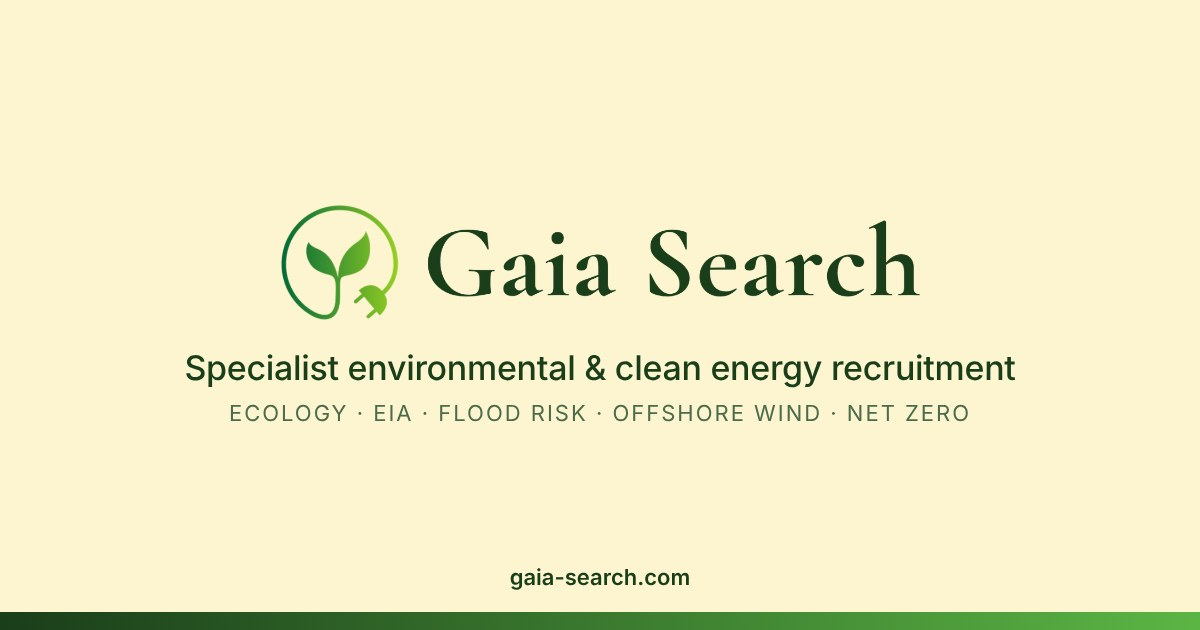
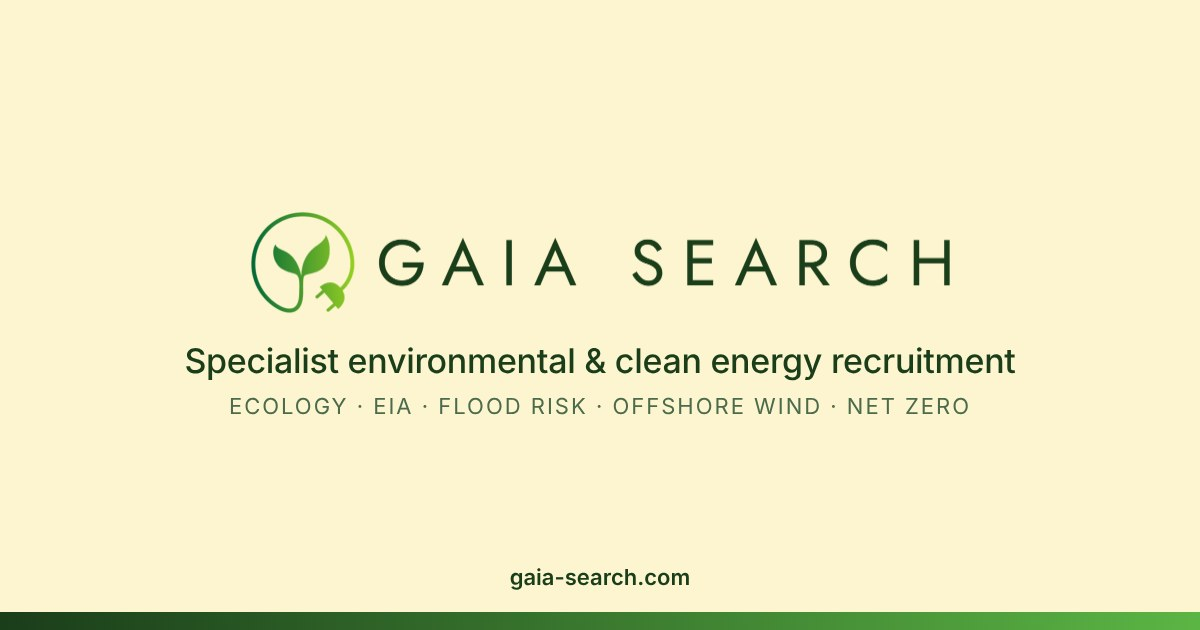
Switch wordmark to option A: Jost Regular, wide letter-spacing
Replaces the serif wordmark with GAIA SEARCH in Jost Regular (one weight
above the Light mock-up), tracked out, cream on dark / dark green on light.
Logo slots resized to suit (header 34px, 26px mobile, footer 30px) and
og-image.jpg rebuilt to match.

Claude-Session: https://claude.ai/code/session_01D4bnh29X5B2rvvEsMSLGxR

Changed region(s): [[0.185, 0.3016, 0.8017, 0.5127], [0.1542, 0.5429, 0.8633, 0.6635]]

diff --git a/a11y.css b/a11y.css
@@ -45,9 +45,9 @@ a:focus-visible,button:focus-visible,input:focus-visible,select:focus-visible,te
 .hero > p{color:rgba(245,245,220,.85)!important}
 
 /* Transparent logo (logo-light.png) – sized for the wider, boxless wordmark */
-.nav-logo img,nav .logo img{height:40px!important;width:auto}
-.footer-logo img,.footer-brand .logo img{height:36px!important;width:auto}
-@media (max-width:600px){.nav-logo img,nav .logo img{height:32px!important}}
+.nav-logo img,nav .logo img{height:34px!important;width:auto}
+.footer-logo img,.footer-brand .logo img{height:30px!important;width:auto}
+@media (max-width:600px){.nav-logo img,nav .logo img{height:26px!important}}
 
 /* Stray mobile menus showing on desktop (about/jobs) */
 .mobile-menu:not(.open){display:none!important}

diff --git a/sector-insight.html b/sector-insight.html
@@ -856,7 +856,7 @@
   <div class="footer-inner">
     <div class="footer-top">
       <div class="footer-brand">
-        <a href="index.html"><img src="logo-light.png" alt="Gaia Search" style="height:36px;width:auto;display:block;margin-bottom:14px;"></a>
+        <a href="index.html"><img src="logo-light.png" alt="Gaia Search" style="height:30px;width:auto;display:block;margin-bottom:14px;"></a>
         <p class="footer-tagline">Specialist recruitment for the UK's environmental consulting and clean energy sectors. Connecting purpose-driven talent with organisations building a better future.</p>
       </div>
       <div class="footer-col">

diff --git a/breaking-into-environmental-consulting-2026.html b/breaking-into-environmental-consulting-2026.html
@@ -878,7 +878,7 @@
   <div class="footer-inner">
     <div class="footer-top">
       <div class="footer-brand">
-        <a href="index.html"><img src="logo-light.png" alt="Gaia Search" style="height:36px;width:auto;display:block;"></a>
+        <a href="index.html"><img src="logo-light.png" alt="Gaia Search" style="height:30px;width:auto;display:block;"></a>
         <p class="footer-tagline">Specialist recruitment for the UK's environmental consulting and clean energy sectors. Connecting purpose-driven talent with organisations building a better future.</p>
       </div>
       <div class="footer-col">

diff --git a/index.html b/index.html
@@ -897,7 +897,7 @@
   <div class="footer-inner">
     <div class="footer-top">
       <div class="footer-brand">
-        <a href="#"><img src="logo-light.png" alt="Gaia Search" style="height:36px;width:auto;margin-bottom:1rem;display:block;"></a>
+        <a href="#"><img src="logo-light.png" alt="Gaia Search" style="height:30px;width:auto;margin-bottom:1rem;display:block;"></a>
       </div>
       <div class="footer-col">
         <h4>Candidates</h4>
